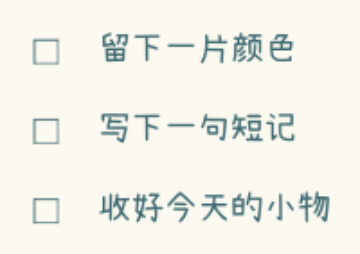
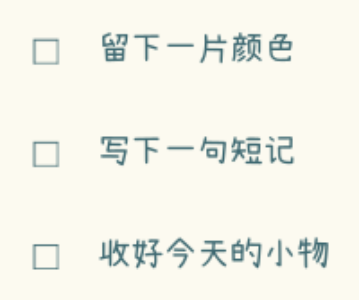
Measure caption and record groups with Scene text layout

diff --git a/src/creation-library/techniques.js b/src/creation-library/techniques.js
@@ -5,6 +5,8 @@ import {compileAccents} from './accents.js';
 import {compileFilm} from './film.js';
 import {compileTitle,titleFields,titleHelp} from './title.js';
 import {techniqueExample,exampleMaterials} from './examples.js';
+import {measureSceneText} from '../scene-text-layout.js';
+import {styleFor} from '../scene-node-properties.js';
 export const techniqueCatalog=catalog;
 const common=['id','reference','at','rotationDeg'];
 const graphic=['widthMm','heightMm','colors','seed'];
@@ -54,6 +56,7 @@ function validate(method,params){
  if(params.gapRatio!==undefined&&(!Number.isFinite(params.gapRatio)||params.gapRatio<0||params.gapRatio>.05))throw Error('余料间隔比例为 0–0.05');
 }
 const mmPlace=(x,y)=>({reference:'parent',at:[x,y],unit:'mm'});
+const measureTextHeight=(content,width,fontSizePt,fontFamily)=>measureSceneText({type:'text',content,width,...styleFor('text',{fontSizePt,fontFamily},{canvas:{height:100},physicalPageHeightMM:100})}).height;
 export function compileTechnique({methodId,parameters,materials=[]}){
  const method=catalog.methods.find(m=>m.id===methodId);if(!method)throw Error('未知教程方法');validate(method,parameters);
  const p={...method.defaults,...parameters,...(method.defaults.options?{options:{...method.defaults.options,...parameters.options}}:{})},id=p.id,colors=p.colors||['#3D6871','#E6B45E','#F1E8D5'],font=p.fontFamily||'Xiaolai',fontSize=p.fontSizePt||18;
@@ -108,7 +111,7 @@ export function compileTechnique({methodId,parameters,materials=[]}){
    children.push({op:'material.add',id:id+'-m'+i,asset:a.alias,place:mmPlace(x+a.w/2,y+a.h/2)});
   }
   width=right;height=bottom;
-  if(p.caption){const captionFont=p.fontSizePt||11,captionHeight=Math.ceil([...p.caption].length/Math.max(1,width/(captionFont*.353)))*captionFont*.45;text(p.caption,0,height+gap,width,{fontSizePt:captionFont});height+=gap+captionHeight;}
+  if(p.caption){const captionFont=p.fontSizePt||11,captionHeight=measureTextHeight(p.caption,width,captionFont,font);text(p.caption,0,height+gap,width,{fontSizePt:captionFont});height+=gap+captionHeight;}
  }else if(method.recipe==='graphic'){
   if(p.shape)resolvedShapeOptions(p.shape,p.options);
   shape(p.shape?{kind:p.shape,...(p.options?{options:p.options}:{})}:{kind:'sketch',motif:p.motif,seed:p.seed||17,...(p.waypoints?{waypoints:p.waypoints}:{})},width/2,height/2,width,height,{fill:p.fill??null,stroke:colors[0],strokeWidthMm:p.strokeWidthMm||.65,opacity:p.opacity??1});
@@ -123,7 +126,7 @@ export function compileTechnique({methodId,parameters,materials=[]}){
   points.forEach(([x,y,r],i)=>children.push({op:'material.tape',id:id+'-tape'+i,asset:alias,lengthMm:p.lengthMm||25,place:{...mmPlace(x,y),rotationDeg:r},caps:{start:'torn',end:'torn',depthMm:.5}}));
  }else if(method.recipe==='record'){
   const size=p.fontSizePt||11,gap=p.gapMm??4,col=p.layout==='columns'?2:1,rowWidth=width/col;
-  const heights=p.items.map(t=>Math.max(1,Math.ceil([...t].length/Math.max(1,(rowWidth-10)/(size*.353))))*size*.48+gap);
+  const heights=p.items.map(t=>Math.max(8,measureTextHeight(t,rowWidth-9,size,font))+gap);
   let y=0;for(let i=0;i<p.items.length;i++){
    if(i%col===0&&i>0)y+=Math.max(...heights.slice(i-col,i));const x=(i%col)*rowWidth;
    if(['numbered','timeline'].includes(p.layout)){shape('ellipse',x+3,y+3,5,5,{fill:colors[1]||colors[0]});text(String(i+1),x+1.5,y+.6,5,{fontSizePt:8});}

diff --git a/tests/creation-library.test.js b/tests/creation-library.test.js
@@ -145,6 +145,24 @@ test('wrapped emphasis marks each occupied line without spanning the empty line 
   assert.equal(apply(await document([]),compiled.operations,[]).changed,true);
  }
 });
+test('long captions and record entries stay inside their reported editable groups',async()=>{
+ const cases=[
+  {methodId:'photo-caption',parameters:{id:'caption',aliases:['m1'],caption:'Today we found a little place by the sea. '.repeat(4),fontSizePt:14,gapMm:2}},
+  ...['record-checklist','record-timeline','record-columns'].map(methodId=>({methodId,parameters:{id:methodId,items:['今天收集了很多文字，需要按实际宽度换行。'.repeat(3),'A long note about the photos saved this afternoon. '.repeat(2)],fontSizePt:14,gapMm:2}}))
+ ];
+ for(const {methodId,parameters} of cases){
+  const compiled=compileTechnique({methodId,parameters,materials:exampleMaterials});
+  const doc=await document(exampleMaterials),done=apply(doc,compiled.operations,exampleMaterials).document;
+  const group=done.page.layers.find(n=>n.id===parameters.id),scale=done.page.canvas.height/done.page.physicalPageHeightMM;
+  const ends=[];
+  for(const command of compiled.operations[0].children.filter(n=>n.op==='text.add')){
+   const node=group.children.find(n=>n.id===command.id);
+   const end=command.place.at[1]+node.height/scale;ends.push(end);
+   assert.ok(end<=compiled.report.heightMm+.01,methodId+'/'+command.id);
+  }
+  assert.ok(compiled.report.heightMm-Math.max(...ends)<=parameters.gapMm+.01,methodId+' should not reserve unused rows');
+ }
+});
 test('title effects compose in one editable text, while curve and grapheme constraints are explicit',async()=>{
  const gradient={angleDeg:45,stops:[{offset:0,color:'#112233'},{offset:1,color:'#445566'}]};
  const compiled=compileTechnique({methodId:'title-shadow',parameters:{id:'fx',text:'标题',style:{gradient,outline:{color:'#FFFFFF',widthMm:.3}}}});

diff --git a/docs/CREATION_LIBRARY_AUDIT.md b/docs/CREATION_LIBRARY_AUDIT.md
@@ -45,6 +45,7 @@
 - 文字：旧 LETTERING 的整字描边、偏移轮廓、阴影、渐变与词组布局已接入。偏旁拆解、任意改笔画尚未实现；不能伪装为字体旋转。倪以七六种标题的全部七图和正文已核对，Skill 逐项区分排版可执行部分与笔画能力缺口；其他历史来源仍按各自阅读记录判定。
 - 标题下划线：长标题使用最后一行的实际换行结果确定线长；旁注即使与标题同文，也不会被误认作标题正文。已用实际 Scene 事务验证，仍需在真实创作页面观察不同字体的视觉对齐。
 - 关键词高亮与圈注：词组换行后按实际占用行分别生成可编辑的底色或细圈，行间空白不再被一整块装饰跨越。已检查长词组的本机渲染；不同字体的精确轮廓仍以实际预览为准。
+- 图注与记录条目：组合高度改用 Scene 同一套确定性文字测量；长中文、英文和双栏条目以实际节点高度核对，不截字也不预留多余整行。已抽看更新后的清单、双栏和图文示意。
 - 纸片：已有撕纸、开窗、分裁与露边。窗芯复用与平面纸条穿插现有多步配方、示意及几何验收；跨边文字与更多复杂余料重组仍需补充真实例子。真实折页、口袋不属于当前平面工具能力。
 - 图案：花瓣、星角、箭头、花边和重复图案已有参数；仍需针对稀疏、密集与小字号场景检验是否抢占主体。
 - 图文和双页：现有方法以局部组为主，跨页非对称叙事和围绕主体的多组关系需要在模板重建阶段验证，不能以单组工具替代整页设计。
@@ -171,4 +172,4 @@
 - 对全部当前可用模板加入同一合同检查：read_template 列出每个位置、所需输入与缺省行为；显式空绑定时每个实体素材位的 report 均为 `blank/unassigned`，不生成替代卡片。数字底形和书写线的保留行为由其独立位置声明，不与实体素材混为一类。
 - 当前 78 个模板中，67 个有逐项描述，11 个结构草稿暂缓匹配与直接套用；其中 39 个结构已核对、28 个待进一步视觉复核。真实素材会与部分示意书写区接近，复杂叠压仍需在模型视觉检查或人工编辑中处理，不能从显式绑定测试推出任意素材都能自动避让。
 
-本轮完整回归：1949 项通过、1 项跳过、0 失败；UI smoke、React 页面流程及 7 视口路由通过。最初在受限执行环境运行时，七个需要启动子进程的测试文件遇到 `spawnSync EPERM`；改用允许子进程的执行环境后，完整门禁通过。没有进行实体设备或远程模型自主创作验收，也没有合并或部署。
+本轮完整回归：1950 项通过、1 项跳过、0 失败；UI smoke、React 页面流程及 7 视口路由通过。最初在受限执行环境运行时，七个需要启动子进程的测试文件遇到 `spawnSync EPERM`；改用允许子进程的执行环境后，完整门禁通过。没有进行实体设备或远程模型自主创作验收，也没有合并或部署。
